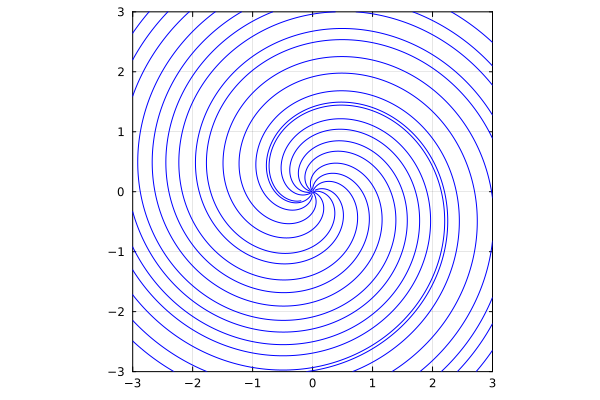
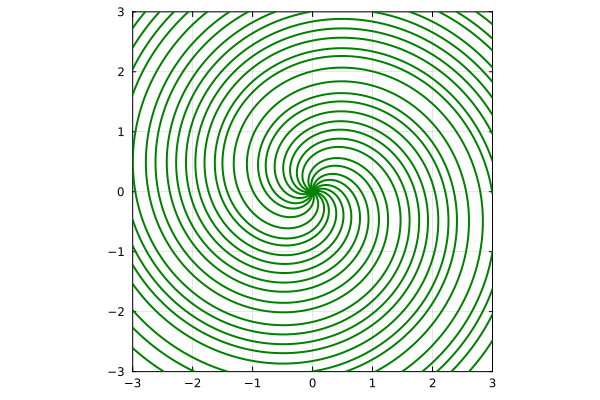
update

Changed region(s): [[0.21, 0.03, 0.84, 0.93]]

diff --git a/README.md b/README.md
@@ -20,10 +20,10 @@ An extension to the Plots.jl ecosystem providing evenly‑spaced streamline plot
 ---
 
 ### Installation
-
+The package is not currenlty registered and can be installed from this repisotory as
 ```julia
 using Pkg
-Pkg.add("PrettyStreamlines")
+Pkg.add("https://github.com/antoniosgeme/PrettyStreamlines.jl.git")
 ```
 
 ### Quickstart
@@ -65,6 +65,7 @@ streamlines(X, Y, U, V,
     min_density = 1,
     max_density = 12,
     color = :blue,
+    lw=2
     )
 ```
 
